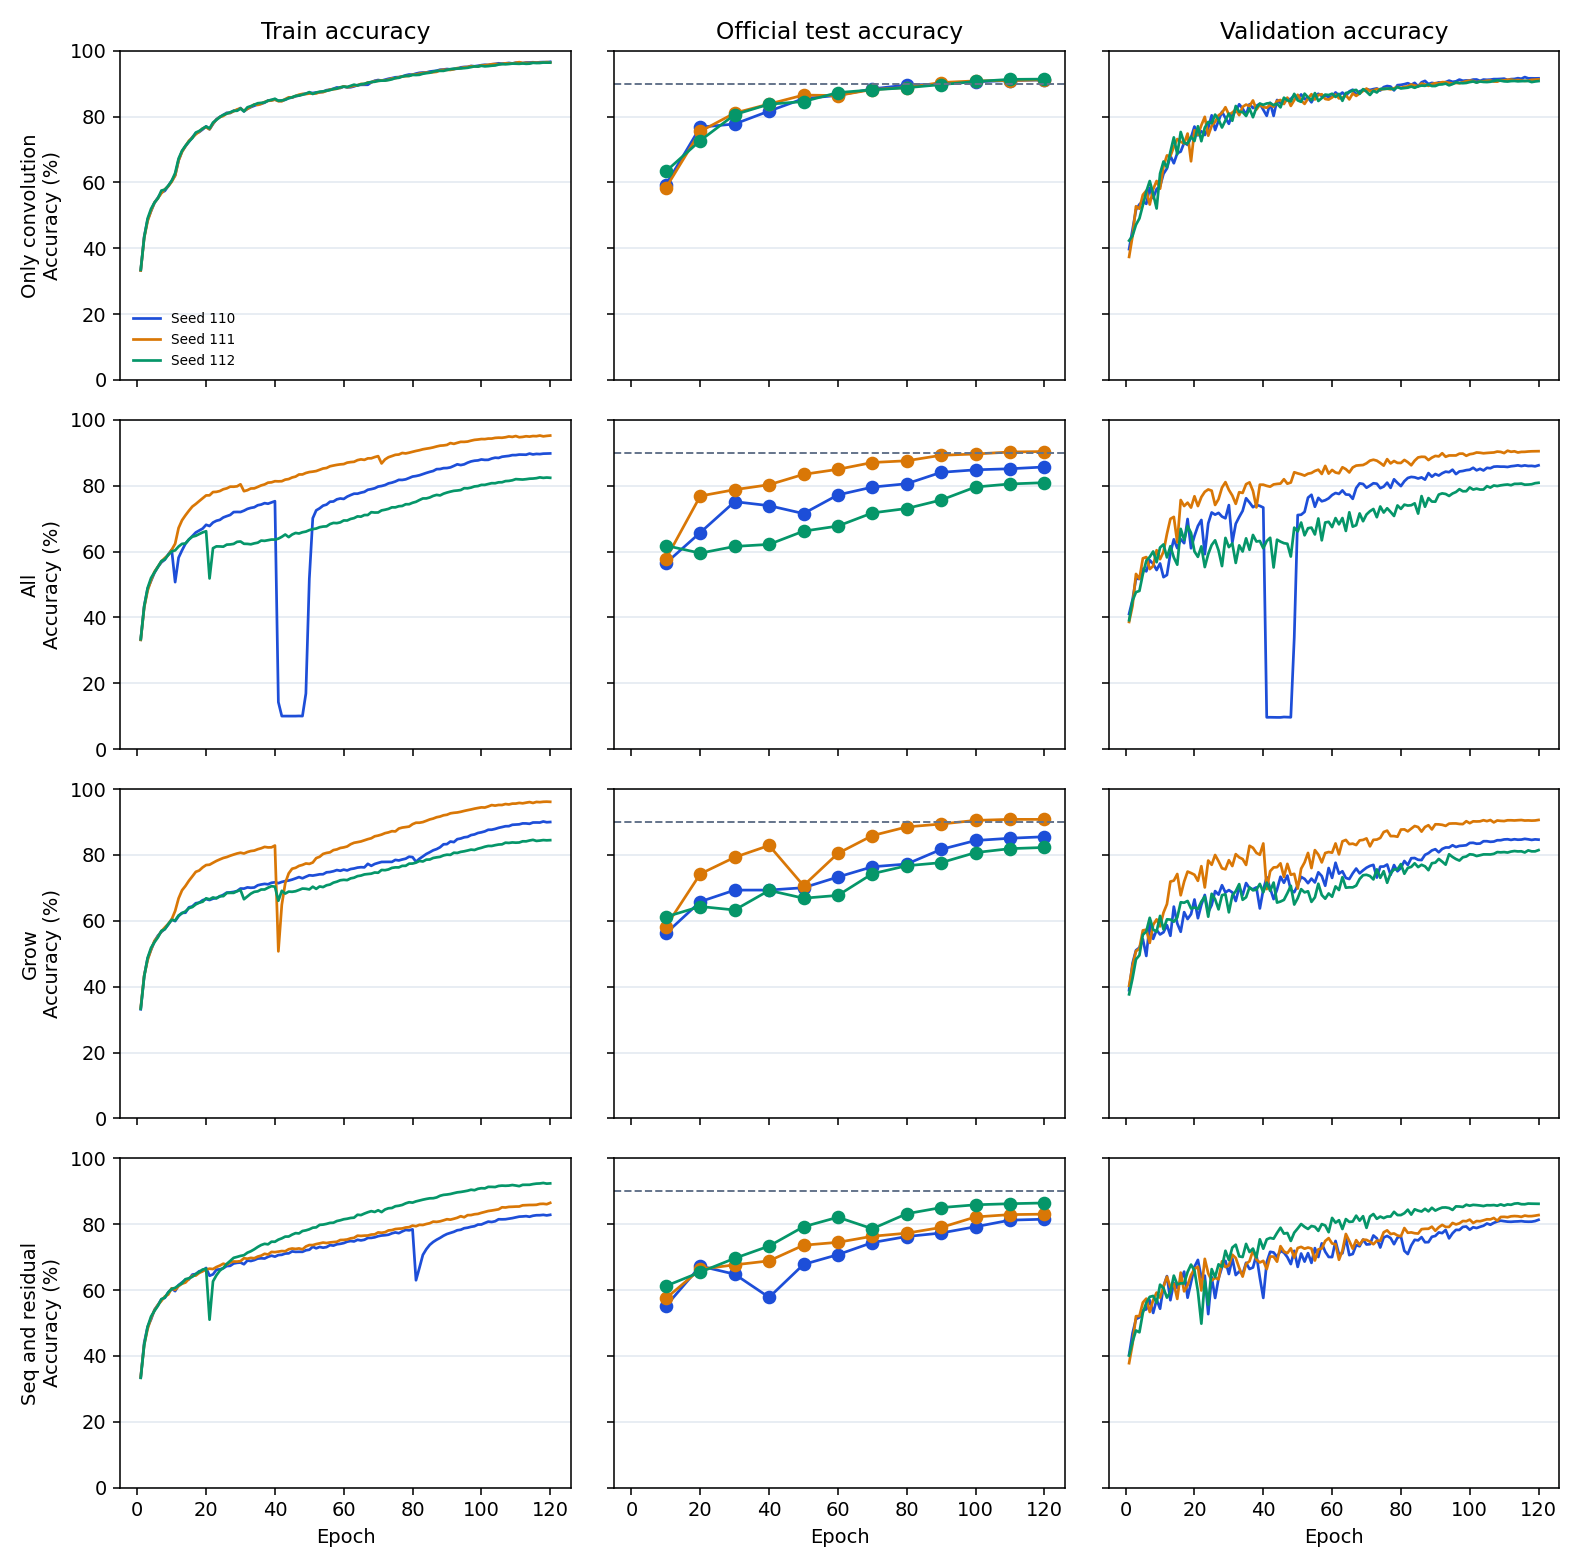
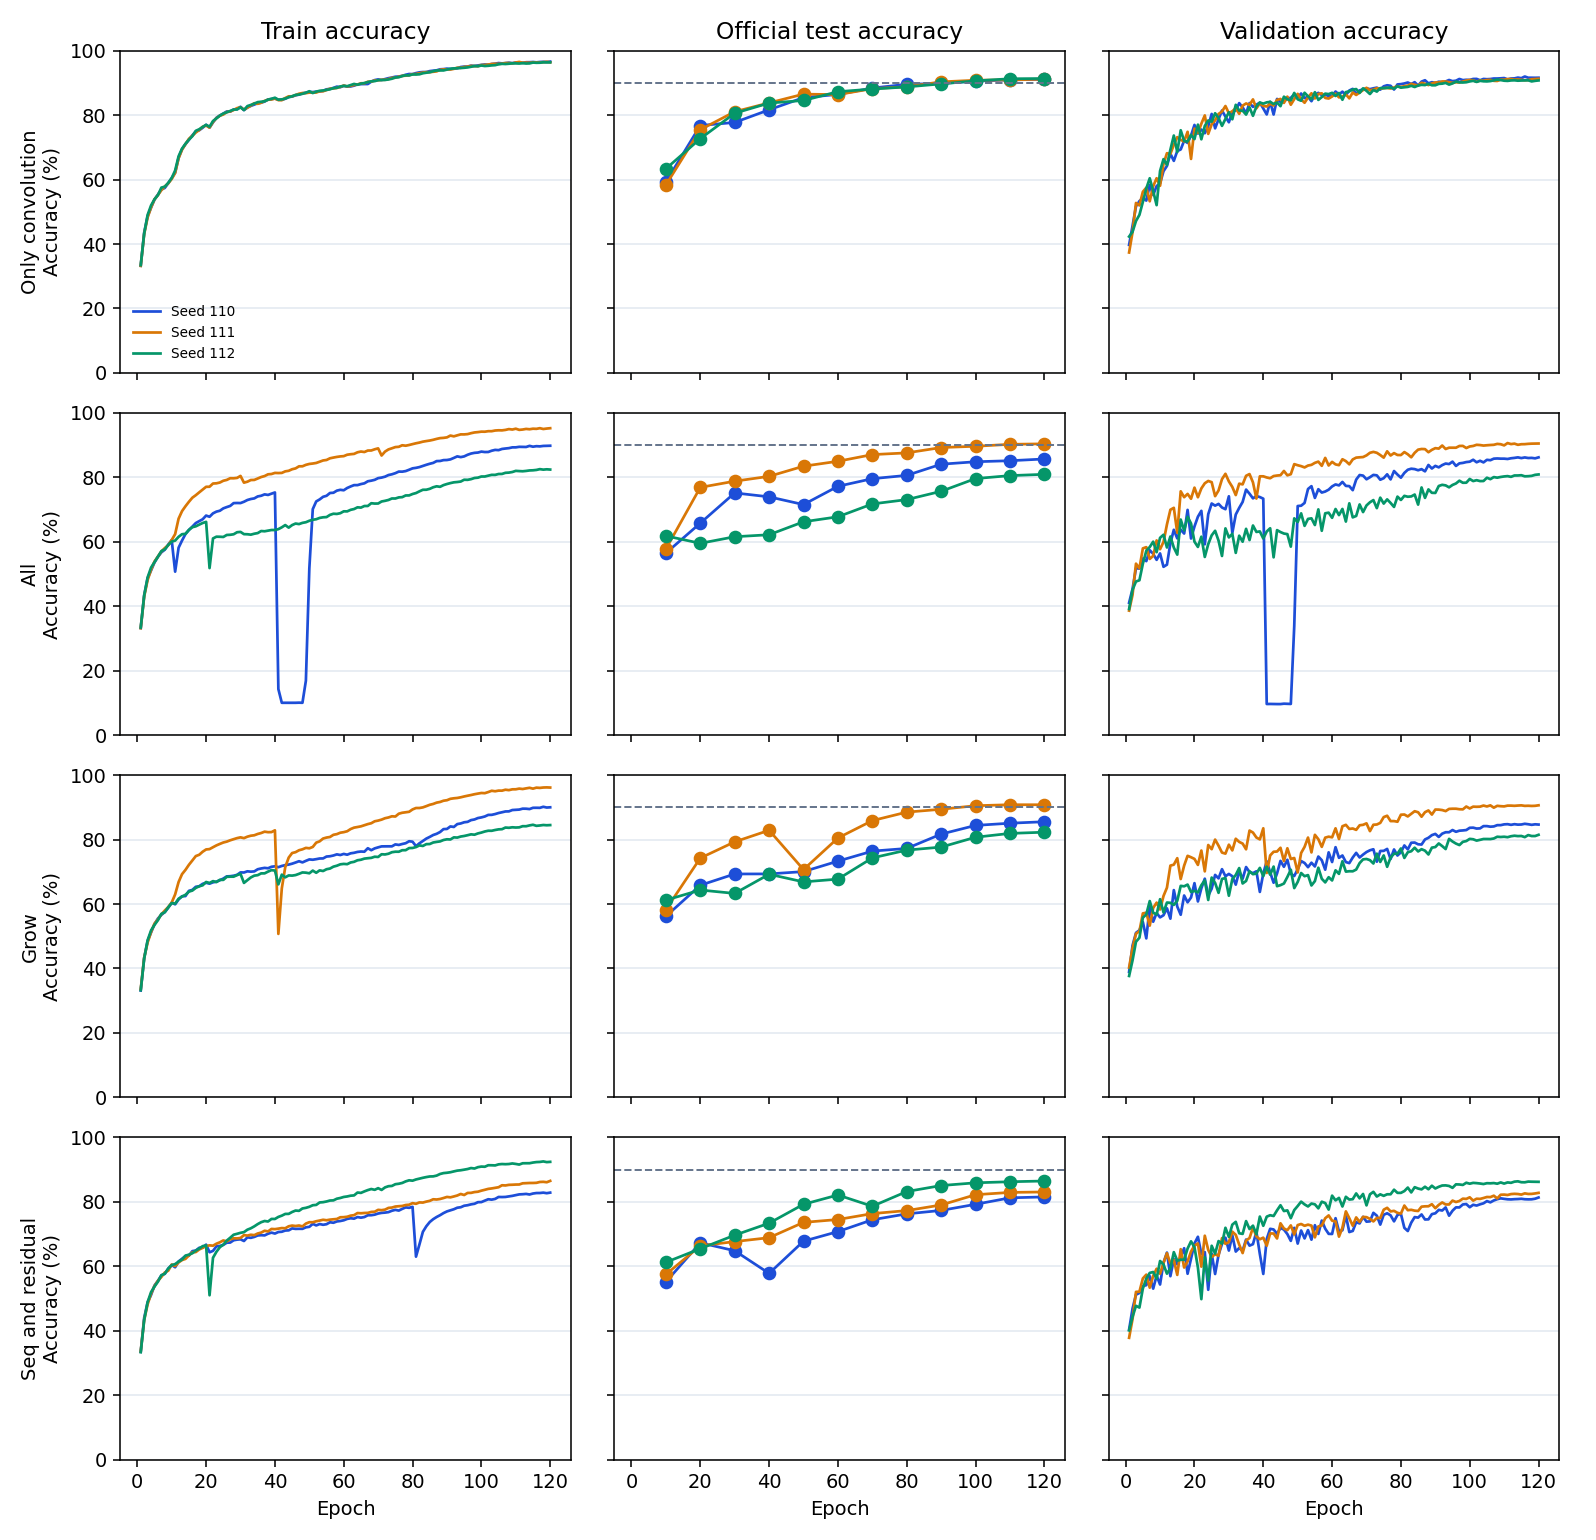
feat(R5): adjust to cifar10 - update experiment 008

diff --git a/experiments/train_cifar10_exp008_generation_only.py b/experiments/train_cifar10_exp008_generation_only.py
@@ -13,7 +13,19 @@ loader only. Seeds are 110, 111, and 112.
 The official 10,000-image test set is logged. Search uses the 5,000-image
 validation slice of the training set.
 
+Phase 1 allows only AddSeqConvLayer:
+
     pipenv run python -u experiments/train_cifar10_exp008_generation_only.py
+
+Phase 2 keeps that recipe and changes only the allowed action set. The groups
+are all, grow, and seq_res. Each group runs seeds 110, 111, and 112.
+
+    pipenv run python -u experiments/train_cifar10_exp008_generation_only.py --phase 2
+
+Phase 3 keeps the all-action list and lengthens the search budget to 100
+seconds, 8 epochs, and 2,000 images. Seeds are 110, 111, and 112.
+
+    pipenv run python -u experiments/train_cifar10_exp008_generation_only.py --phase 3
 """
 
 from __future__ import annotations
@@ -40,13 +52,49 @@ from experiments.train_cifar10_exp007_test90_package import (
     running_config_for_group,
 )
 from growingnn.simulation.score_functions.simulation_score import SimulationScore
+from growingnn.simulation.simulation_schedulers import AlwaysSimulationScheduler
 from growingnn.simulation.simulation_set import sample_loaders
 from growingnn.training.stoppers import AccuracyStopper
 from growingnn.training.trainer import train_generations
 from growingnn.utils.seed import seed_all
 
 RUNS_DIR = Path(__file__).resolve().parent / "output" / "train_cifar10" / "runs" / "exp008_generation_only"
+PHASE2_DIR = Path(__file__).resolve().parent / "output" / "train_cifar10" / "runs" / "exp008_generation_only_phase2"
+PHASE3_DIR = Path(__file__).resolve().parent / "output" / "train_cifar10" / "runs" / "exp008_generation_only_phase3"
 SEEDS = (110, 111, 112)
+PHASE2_GROUPS = ("all", "grow", "seq_res")
+PHASE3_SIMULATION = (100.0, 8, 2000)
+_ACTION_FLAGS = (
+    "ACTIONS_ENABLE_ADD_SEQ_LAYER",
+    "ACTIONS_ENABLE_ADD_RES_LAYER",
+    "ACTIONS_ENABLE_ADD_SEQ_CONV_LAYER",
+    "ACTIONS_ENABLE_ADD_RES_CONV_LAYER",
+    "ACTIONS_ENABLE_ADD_NEURONS_11",
+    "ACTIONS_ENABLE_ADD_NEURONS_15",
+    "ACTIONS_ENABLE_ADD_NEURONS_20",
+    "ACTIONS_ENABLE_ADD_SEQ_DROPOUT_01",
+    "ACTIONS_ENABLE_ADD_SEQ_DROPOUT_02",
+    "ACTIONS_ENABLE_ADD_SEQ_DROPOUT_05",
+    "ACTIONS_ENABLE_DEL_LAYER",
+    "ACTIONS_ENABLE_DEL_NEURONS_01",
+    "ACTIONS_ENABLE_DEL_NEURONS_05",
+    "ACTIONS_ENABLE_DEL_NEURONS_09",
+)
+_GROW_FLAGS = (
+    "ACTIONS_ENABLE_ADD_SEQ_LAYER",
+    "ACTIONS_ENABLE_ADD_RES_LAYER",
+    "ACTIONS_ENABLE_ADD_SEQ_CONV_LAYER",
+    "ACTIONS_ENABLE_ADD_RES_CONV_LAYER",
+    "ACTIONS_ENABLE_ADD_NEURONS_11",
+    "ACTIONS_ENABLE_ADD_NEURONS_15",
+    "ACTIONS_ENABLE_ADD_NEURONS_20",
+)
+_SEQ_RES_FLAGS = (
+    "ACTIONS_ENABLE_ADD_SEQ_LAYER",
+    "ACTIONS_ENABLE_ADD_RES_LAYER",
+    "ACTIONS_ENABLE_ADD_SEQ_CONV_LAYER",
+    "ACTIONS_ENABLE_ADD_RES_CONV_LAYER",
+)
 GENERATIONS = 12
 EPOCHS = 10
 CHANNELS = 128
@@ -56,6 +104,8 @@ _EPOCH_KEYS = ("train_loss", "train_acc", "val_loss", "val_acc", "lr", "param_co
 _ACTION_KEYS = (
     "action_generation",
     "action_name",
+    "action_from",
+    "action_to",
     "action_val_acc_before",
     "action_val_acc_after",
 )
@@ -117,16 +167,54 @@ def with_cutout(loader: DataLoader) -> DataLoader:
     return DataLoader(_Cutout(), batch_size=loader.batch_size, shuffle=True)
 
 
+def enabled_action_flags(group: str) -> tuple[str, ...]:
+    """Return the action flags that stay on for one Experiment 008 group."""
+    if group == "seq_conv":
+        return ("ACTIONS_ENABLE_ADD_SEQ_CONV_LAYER",)
+    if group == "all":
+        return _ACTION_FLAGS
+    if group == "grow":
+        return _GROW_FLAGS
+    if group == "seq_res":
+        return _SEQ_RES_FLAGS
+    raise ValueError(f"unknown action group {group}")
+
+
+def apply_action_group(cfg, group: str) -> None:
+    """Turn action flags on or off. Every other training setting stays as passed in."""
+    enabled = set(enabled_action_flags(group))
+    for flag in _ACTION_FLAGS:
+        setattr(cfg, flag, flag in enabled)
+
+
+def apply_simulation_budget(cfg, simulation: tuple[float, int, int]) -> None:
+    """Replace how long Monte Carlo looks. Action flags and the training recipe stay as they are."""
+    time_s, epochs, set_size = simulation
+    cfg.simulation_set_size = int(set_size)
+    cfg.simulation_scheduler = AlwaysSimulationScheduler(float(time_s), int(epochs))
+
+
 def parse_args(argv: list[str] | None = None) -> argparse.Namespace:
-    """Select an optional seed subset. There is no finish-chunk stage and no original group."""
+    """Select phase 1, phase 2 groups, or the phase 3 long simulation, and an optional seed subset."""
     parser = argparse.ArgumentParser(description="Experiment 008: CIFAR-10 generation loop only.")
+    parser.add_argument("--phase", type=int, choices=(1, 2, 3), default=1)
+    parser.add_argument("--groups", nargs="*", default=None)
     parser.add_argument("--seeds", type=int, nargs="*", default=None)
     args = parser.parse_args(argv)
     seeds = tuple(args.seeds) if args.seeds else SEEDS
     unknown = [seed for seed in seeds if seed not in SEEDS]
     if unknown:
         raise ValueError(f"seeds must be among {list(SEEDS)}: {unknown}")
+    groups = tuple(args.groups) if args.groups else PHASE2_GROUPS
+    unknown_groups = [group for group in groups if group not in PHASE2_GROUPS]
+    if unknown_groups:
+        raise ValueError(f"groups must be among {list(PHASE2_GROUPS)}: {unknown_groups}")
+    if args.phase == 1 and args.groups:
+        raise ValueError("phase 1 does not take --groups")
+    if args.phase == 3 and args.groups:
+        raise ValueError("phase 3 does not take --groups")
     args.seeds = seeds
+    args.groups = groups
     return args
 
 
@@ -150,7 +238,13 @@ def history_from_generations(summary: dict, seed: int, epochs_per_generation: in
     return history
 
 
-def run_seed(data: Cifar10Data, out_dir: Path, seed: int) -> None:
+def run_seed(
+    data: Cifar10Data,
+    out_dir: Path,
+    seed: int,
+    group: str = "seq_conv",
+    simulation: tuple[float, int, int] | None = None,
+) -> None:
     """Train one seed with the generation loop. Official test is logged and does not stop the run."""
     if (out_dir / "history.pt").is_file():
         print(f"SKIP seed {seed} history exists at {out_dir / 'history.pt'}", flush=True)
@@ -160,6 +254,10 @@ def run_seed(data: Cifar10Data, out_dir: Path, seed: int) -> None:
     hp["epochs"] = EPOCHS
     hp["model_channels"] = CHANNELS
     hp["model_hidden_dim"] = HIDDEN
+    if simulation is not None:
+        hp["simulation_time"] = float(simulation[0])
+        hp["simulation_epochs"] = int(simulation[1])
+        hp["simulation_set_size"] = int(simulation[2])
     device = torch.device("cuda" if torch.cuda.is_available() else "cpu")
     torch.set_num_threads(2 if device.type == "cuda" else 4)
     seed_all(seed)
@@ -177,9 +275,14 @@ def run_seed(data: Cifar10Data, out_dir: Path, seed: int) -> None:
     cfg.simulation_score = SimulationScore(weight_acc=1.0, weight_countW=0.0)
     cfg.stopper = AccuracyStopper(target_accuracy=0.999)
     cfg.criterion = nn.CrossEntropyLoss(label_smoothing=LABEL_SMOOTHING)
+    apply_action_group(cfg, group)
+    if simulation is not None:
+        apply_simulation_budget(cfg, simulation)
     print(
-        f"EXP008 seed {seed} device {device} generations {GENERATIONS} epochs {EPOCHS} "
-        f"channels {CHANNELS} hidden {HIDDEN} smooth {LABEL_SMOOTHING} cutout True",
+        f"EXP008 seed {seed} group {group} device {device} generations {GENERATIONS} epochs {EPOCHS} "
+        f"channels {CHANNELS} hidden {HIDDEN} smooth {LABEL_SMOOTHING} cutout True "
+        f"sim {cfg.simulation_scheduler.simulation_time}s "
+        f"{cfg.simulation_scheduler.simulation_epochs} epochs set {cfg.simulation_set_size}",
         flush=True,
     )
     grown, summary = train_generations(
@@ -189,6 +292,10 @@ def run_seed(data: Cifar10Data, out_dir: Path, seed: int) -> None:
     print(f"TEST seed {seed}", [round(float(value), 4) for value in summary["test_acc"]], flush=True)
     out_dir.mkdir(parents=True, exist_ok=True)
     history = history_from_generations(summary, seed, EPOCHS)
+    history["action_group"] = group
+    history["simulation_time"] = float(cfg.simulation_scheduler.simulation_time)
+    history["simulation_epochs"] = int(cfg.simulation_scheduler.simulation_epochs)
+    history["simulation_set_size"] = int(cfg.simulation_set_size)
     torch.save(history, out_dir / "history.pt")
     torch.save(
         {"state_dict": grown.state_dict(), "test_acc": summary["test_acc"], "seed": seed},
@@ -198,14 +305,35 @@ def run_seed(data: Cifar10Data, out_dir: Path, seed: int) -> None:
 
 
 def main(argv: list[str] | None = None) -> None:
-    """Run the generation-only recipe for the selected seeds."""
+    """Run phase 1, the phase 2 action groups, or the phase 3 long simulation."""
     args = parse_args(argv)
-    print(f"Exp 008 seeds {', '.join(str(seed) for seed in args.seeds)}.", flush=True)
-    print(f"Write target: {RUNS_DIR}", flush=True)
     data = Cifar10Data(DATA_DIR)
     data.prepare()
-    for seed in args.seeds:
-        run_seed(data, RUNS_DIR / f"seed_{seed}", seed)
+    if args.phase == 1:
+        print(f"Exp 008 phase 1 seeds {', '.join(str(seed) for seed in args.seeds)}.", flush=True)
+        print(f"Write target: {RUNS_DIR}", flush=True)
+        for seed in args.seeds:
+            run_seed(data, RUNS_DIR / f"seed_{seed}", seed, "seq_conv")
+        return
+    if args.phase == 3:
+        time_s, sim_epochs, set_size = PHASE3_SIMULATION
+        print(
+            f"Exp 008 phase 3 all seeds {', '.join(str(seed) for seed in args.seeds)} "
+            f"sim {time_s}s {sim_epochs} epochs set {set_size}.",
+            flush=True,
+        )
+        print(f"Write target: {PHASE3_DIR}", flush=True)
+        for seed in args.seeds:
+            run_seed(data, PHASE3_DIR / "all" / f"seed_{seed}", seed, "all", PHASE3_SIMULATION)
+        return
+    print(
+        f"Exp 008 phase 2 groups {', '.join(args.groups)} seeds {', '.join(str(seed) for seed in args.seeds)}.",
+        flush=True,
+    )
+    print(f"Write target: {PHASE2_DIR}", flush=True)
+    for group in args.groups:
+        for seed in args.seeds:
+            run_seed(data, PHASE2_DIR / group / f"seed_{seed}", seed, group)
 
 
 if __name__ == "__main__":

diff --git a/tests/unit/experiments/test_train_cifar10_exp008.py b/tests/unit/experiments/test_train_cifar10_exp008.py
@@ -5,13 +5,18 @@ import pytest
 import torch
 from torch.utils.data import DataLoader, TensorDataset
 
+from growingnn.core.config import RunningConfig
+from growingnn.simulation.simulation_schedulers import AlwaysSimulationScheduler
 from experiments.train_cifar10_exp008_generation_only import (
     CHANNELS,
     EPOCHS,
     GENERATIONS,
     HIDDEN,
+    PHASE3_SIMULATION,
     SEEDS,
     CosineDecayScheduler,
+    apply_action_group,
+    apply_simulation_budget,
     history_from_generations,
     parse_args,
     with_cutout,
@@ -29,6 +34,7 @@ def test_parse_args_defaults_to_the_three_experiment_seeds():
     # Assert
     assert args.seeds == SEEDS
     assert args.seeds == (110, 111, 112)
+    assert args.phase == 1
 
 
 def test_parse_args_rejects_a_seed_outside_the_experiment():
@@ -39,6 +45,124 @@ def test_parse_args_rejects_a_seed_outside_the_experiment():
     # Arrange / Act / Assert
     with pytest.raises(ValueError):
         parse_args(["--seeds", "1"])
+
+
+def test_parse_args_phase_two_defaults_to_the_three_action_groups():
+    """
+    Phase 2 should run the all, grow, and seq_res groups on the experiment seeds.
+    """
+
+    # Arrange / Act
+    args = parse_args(["--phase", "2"])
+
+    # Assert
+    assert args.phase == 2
+    assert args.groups == ("all", "grow", "seq_res")
+    assert args.seeds == (110, 111, 112)
+
+
+def test_parse_args_phase_three_defaults_to_the_experiment_seeds():
+    """
+    Phase 3 should train seeds 110, 111, and 112 unless a subset is requested.
+    """
+
+    # Arrange / Act
+    args = parse_args(["--phase", "3"])
+
+    # Assert
+    assert args.phase == 3
+    assert args.seeds == (110, 111, 112)
+
+
+def test_parse_args_phase_three_rejects_an_action_group_list():
+    """
+    Phase 3 should reject --groups because it always uses the all-action list.
+    """
+
+    # Arrange / Act / Assert
+    with pytest.raises(ValueError):
+        parse_args(["--phase", "3", "--groups", "grow"])
+
+
+def test_phase_three_budget_is_one_hundred_seconds_on_the_all_group():
+    """
+    The phase 3 budget should be 100 seconds, 8 epochs, and 2000 images, with every action still enabled.
+    """
+
+    # Arrange
+    cfg = RunningConfig(generations=1, epochs=1)
+    apply_action_group(cfg, "all")
+
+    # Act
+    apply_simulation_budget(cfg, PHASE3_SIMULATION)
+
+    # Assert
+    assert PHASE3_SIMULATION == (100.0, 8, 2000)
+    assert isinstance(cfg.simulation_scheduler, AlwaysSimulationScheduler)
+    assert cfg.simulation_scheduler.simulation_time == 100.0
+    assert cfg.simulation_scheduler.simulation_epochs == 8
+    assert cfg.simulation_set_size == 2000
+    assert cfg.ACTIONS_ENABLE_DEL_LAYER is True
+    assert cfg.ACTIONS_ENABLE_ADD_SEQ_CONV_LAYER is True
+
+
+def test_grow_group_keeps_add_neurons_and_turns_delete_off():
+    """
+    The grow group should allow layer adds and neuron adds, and disallow deletes.
+    """
+
+    # Arrange
+    cfg = RunningConfig(generations=1, epochs=1)
+
+    # Act
+    apply_action_group(cfg, "grow")
+
+    # Assert
+    assert cfg.ACTIONS_ENABLE_ADD_SEQ_CONV_LAYER is True
+    assert cfg.ACTIONS_ENABLE_ADD_RES_CONV_LAYER is True
+    assert cfg.ACTIONS_ENABLE_ADD_NEURONS_11 is True
+    assert cfg.ACTIONS_ENABLE_DEL_LAYER is False
+    assert cfg.ACTIONS_ENABLE_ADD_SEQ_DROPOUT_01 is False
+
+
+def test_seq_res_group_turns_add_neurons_off():
+    """
+    The seq_res group should allow sequential and residual adds, and disallow neuron adds.
+    """
+
+    # Arrange
+    cfg = RunningConfig(generations=1, epochs=1)
+
+    # Act
+    apply_action_group(cfg, "seq_res")
+
+    # Assert
+    assert cfg.ACTIONS_ENABLE_ADD_SEQ_LAYER is True
+    assert cfg.ACTIONS_ENABLE_ADD_RES_LAYER is True
+    assert cfg.ACTIONS_ENABLE_ADD_SEQ_CONV_LAYER is True
+    assert cfg.ACTIONS_ENABLE_ADD_RES_CONV_LAYER is True
+    assert cfg.ACTIONS_ENABLE_ADD_NEURONS_11 is False
+    assert cfg.ACTIONS_ENABLE_DEL_NEURONS_05 is False
+
+
+def test_all_group_enables_delete_and_dropout():
+    """
+    The all group should leave every structure-action flag on.
+    """
+
+    # Arrange
+    cfg = RunningConfig(generations=1, epochs=1)
+    apply_action_group(cfg, "seq_conv")
+
+    # Act
+    apply_action_group(cfg, "all")
+
+    # Assert
+    assert cfg.ACTIONS_ENABLE_DEL_LAYER is True
+    assert cfg.ACTIONS_ENABLE_DEL_NEURONS_09 is True
+    assert cfg.ACTIONS_ENABLE_ADD_SEQ_DROPOUT_05 is True
+    assert cfg.ACTIONS_ENABLE_ADD_NEURONS_20 is True
+    assert cfg.ACTIONS_ENABLE_ADD_SEQ_CONV_LAYER is True
 
 
 def test_recipe_is_the_twelve_by_ten_cosine_generation_loop():
